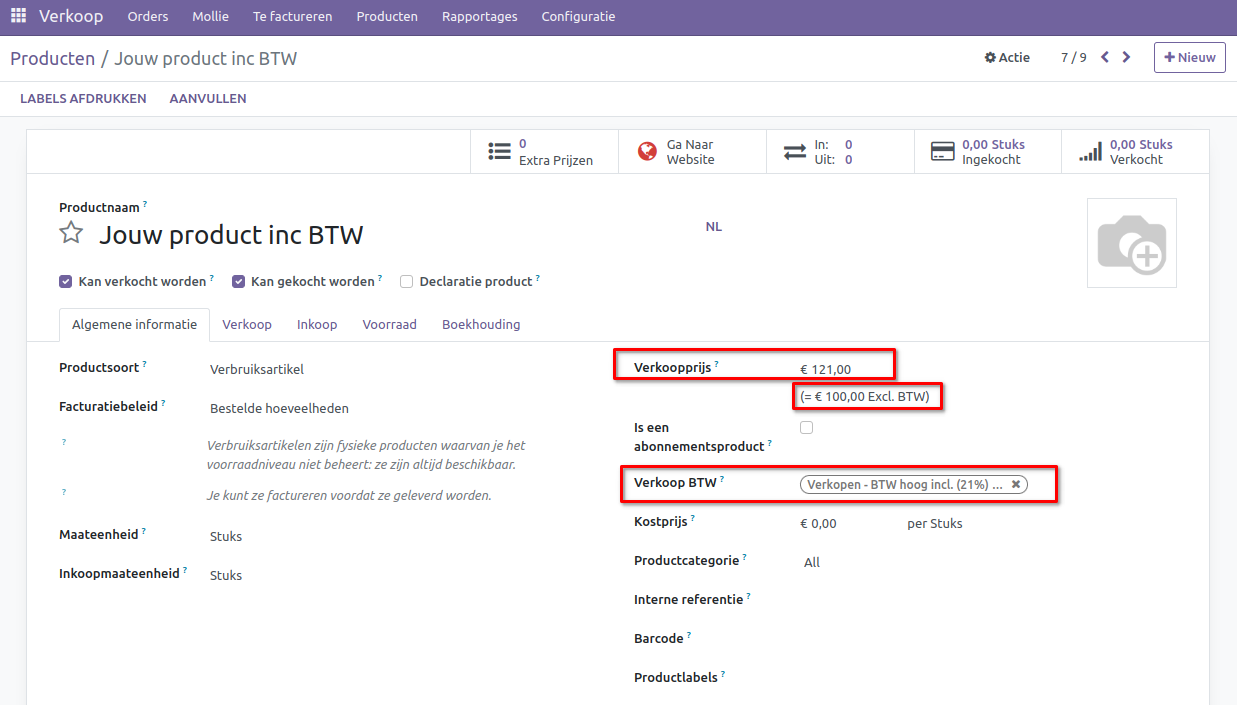
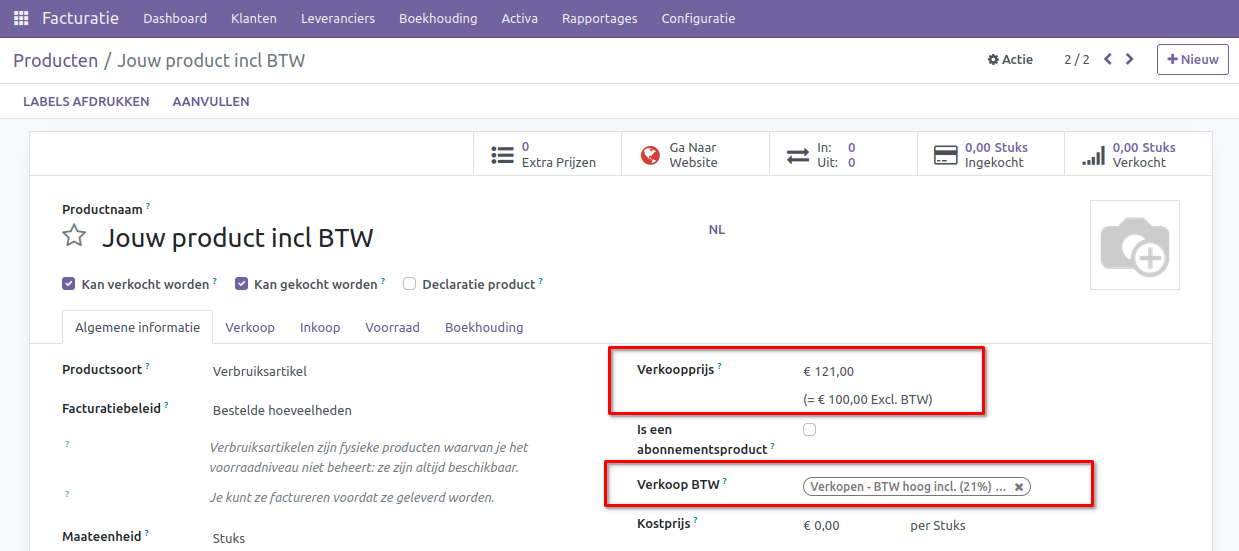
write doc

diff --git a/Handleiding/Boekhouding/belastingen_B2B_B2C.rst b/Handleiding/Boekhouding/belastingen_B2B_B2C.rst
@@ -13,7 +13,7 @@ In dit model verkoopt een bedrijf producten of diensten aan andere bedrijven. Ee
 
 In essentie draait het bij B2C om de verkoop aan individuele consumenten, terwijl B2B verwijst naar transacties tussen twee bedrijven. Beide modellen hebben hun eigen specifieke kenmerken, en dit heeft invloed op hoe je belastingen inricht in Curq.
 
-Curq ondersteunt beide manieren om de BTW toe te passen. Het is het eenvoudigst als je slechts één van de twee modellen gebruikt. Als je echter in een gemengde vorm werkt, zul je specifieke instellingen moeten configureren. We zullen hier alle vormen bespreken.
+Curq ondersteunt beide manieren om de BTW toe te passen. Het is het eenvoudigst als je slechts één van de twee modellen gebruikt. AEchter, als je in een gemengde vorm werkt, dien je specifieke instellingen te configureren. In dit geval zullen we ons beperken tot de modellen B2C en B2B, aangezien een gemengde vorm complex is en het beheer ervan foutgevoelig kan zijn.
 
 B2C
 ---
@@ -32,10 +32,19 @@ Ook op je facturen en verkooporders zal je nu op de regels het bedrag inclusief 
 
 .. image:: Boekhouding/belastingen_b2c_b2b003.png
 
-
 B2B
 ---
+Voor B2B worden de prijzen meestal exclusief BTW weergegeven. Stel, je verkoopt jouw product voor €100,- en er wordt 21% BTW over gerekend, dan ziet jouw klant €100,- + €21,-. Jouw klant betaalt uiteindelijk €121,- en door de splitsing weet jouw klant wel bedrag hij kan opgeven aan de belastingdienst.
 
-B2C en B2B
-----------
+Met de volgende instellingen kun je jouw omgeving configureren voor B2B. Ga naar Instellingen > Facturatie > BTW. Zorg ervoor dat je bij de algemene BTW-instelling een BTW-code met exclusief BTW kiest voor **Verkoop BTW**.
 
+.. image:: Boekhouding/belastingen_b2c_b2b004.png
+
+De tweede instelling kun je configureren via Instellingen > Facturatie > Klantfacturen. Zorg ervoor dat deze op **exclusief BTW** staat.
+
+.. image:: Boekhouding/belastingen_b2c_b2b005.png
+
+Zodra je een product aanmaakt, vul je daar de verkoopprijs in, exclusief het BTW-bedrag, bijvoorbeeld €100,-. Je ziet meteen ook het bedrag inclusief BTW, bijvoorbeeld €121,-. Op basis van jouw instellingen stelt Curq nu automatisch de BTW-code met exclusief BTW in voor elk product.
+Ook op je facturen en verkooporders zal je nu op de regels het bedrag exclusief het BTW zien.
+
+.. image:: Boekhouding/belastingen_b2c_b2b006.png
